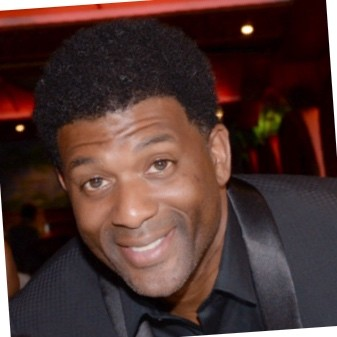
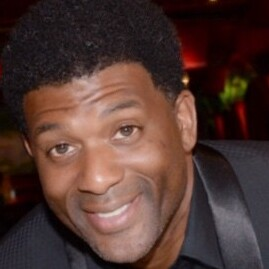
Added Jermaine Washington Jr to the list

diff --git a/src/pages/Home.jsx b/src/pages/Home.jsx
@@ -6,13 +6,14 @@ import uyiosaImage from '../assets/uyiosa-nehikhuere.jpg';
 import sheldenImage from '../assets/shelden-rattray.png';
 import raphaelImage from '../assets/raphael-omorose.png';
 import seanImage from '../assets/sean-tolliver.jpg';
+import jermaineImage from '../assets/jermaine-washington.jpg';
 
 const talentData = [
-  { id: 1, name: 'Uyiosa Nehikhuere', location: 'Atlanta, USA', role: 'Software Engineer Intern @ New York Life, Prev SWE Intern @ FactSet, Computer Science student at Georgia State University.', socialLink: 'https://www.linkedin.com/in/uyiosa-nehikhuere-16406328b/', image: uyiosaImage, aspectRatio: '1/1' },
-  { id: 2, name: 'Shelden Rattray', location: 'Atlanta, USA', role: 'Cloud Platform Engineer Intern at Fiserv. Computer Science student at Georgia State University.', socialLink: 'https://linkedin.com/in/shelden-rattray', image: sheldenImage, aspectRatio: '0.88/1' },
-  { id: 3, name: 'Raphael Omorose', location: 'Atlanta, USA', role: '2x Software Engineer Intern @ Uber, Computer Science student at Georgia State University, GSU Colorstack Vice President', socialLink: 'https://www.linkedin.com/in/raphaelomorose/', image: raphaelImage, aspectRatio: '1.2/1' },
+  { id: 5, name: 'Jermaine Washington Jr.', location: 'Atlanta, USA', role: 'Senior Software Engineer at Equifax.', socialLink: 'https://www.linkedin.com/in/jermainewashingtonjr/', image: jermaineImage, aspectRatio: '1.1/1' },
   { id: 4, name: 'Sean Tolliver', location: 'Atlanta, USA', role: 'Co-Founder of TRKGLOBAL LLC. Georgia Tech Alumni MBA Management Of Technology.', socialLink: 'https://www.linkedin.com/in/seantolliver/', image: seanImage, aspectRatio: '1/1' },
-  { id: 5, name: 'TBD', location: 'Coming Soon', role: 'Community member spotlight. We are currently vetting and aggregating the next wave of Black excellence in tech.', socialLink: '#', aspectRatio: '1.1/1' },
+  { id: 1, name: 'Uyiosa Nehikhuere', location: 'Atlanta, USA', role: 'Software Engineer Intern @ New York Life, Prev SWE Intern @ FactSet, Computer Science student at Georgia State University.', socialLink: 'https://www.linkedin.com/in/uyiosa-nehikhuere-16406328b/', image: uyiosaImage, aspectRatio: '1/1' },
+  { id: 3, name: 'Raphael Omorose', location: 'Atlanta, USA', role: '2x Software Engineer Intern @ Uber, Computer Science student at Georgia State University, GSU Colorstack Vice President', socialLink: 'https://www.linkedin.com/in/raphaelomorose/', image: raphaelImage, aspectRatio: '1.2/1' },
+  { id: 2, name: 'Shelden Rattray', location: 'Atlanta, USA', role: 'Cloud Platform Engineer Intern at Fiserv. Computer Science student at Georgia State University.', socialLink: 'https://linkedin.com/in/shelden-rattray', image: sheldenImage, aspectRatio: '0.88/1' },
   { id: 6, name: 'TBD', location: 'Coming Soon', role: 'Community member spotlight. We are currently vetting and aggregating the next wave of Black excellence in tech.', socialLink: '#', aspectRatio: '1/1' },
   { id: 7, name: 'TBD', location: 'Coming Soon', role: 'Community member spotlight. We are currently vetting and aggregating the next wave of Black excellence in tech.', socialLink: '#', aspectRatio: '0.85/1' },
   { id: 8, name: 'TBD', location: 'Coming Soon', role: 'Community member spotlight. We are currently vetting and aggregating the next wave of Black excellence in tech.', socialLink: '#', aspectRatio: '1.05/1' },

diff --git a/src/components/TalentCard.jsx b/src/components/TalentCard.jsx
@@ -1,6 +1,6 @@
 import React from 'react';
 
-const TalentCard = ({ name, location, website, role, socialLink, image, aspectRatio }) => {
+const TalentCard = ({ name, location, role, socialLink, image, aspectRatio }) => {
   const isPlaceholder = name === 'TBD' || !image;
 
   return (
